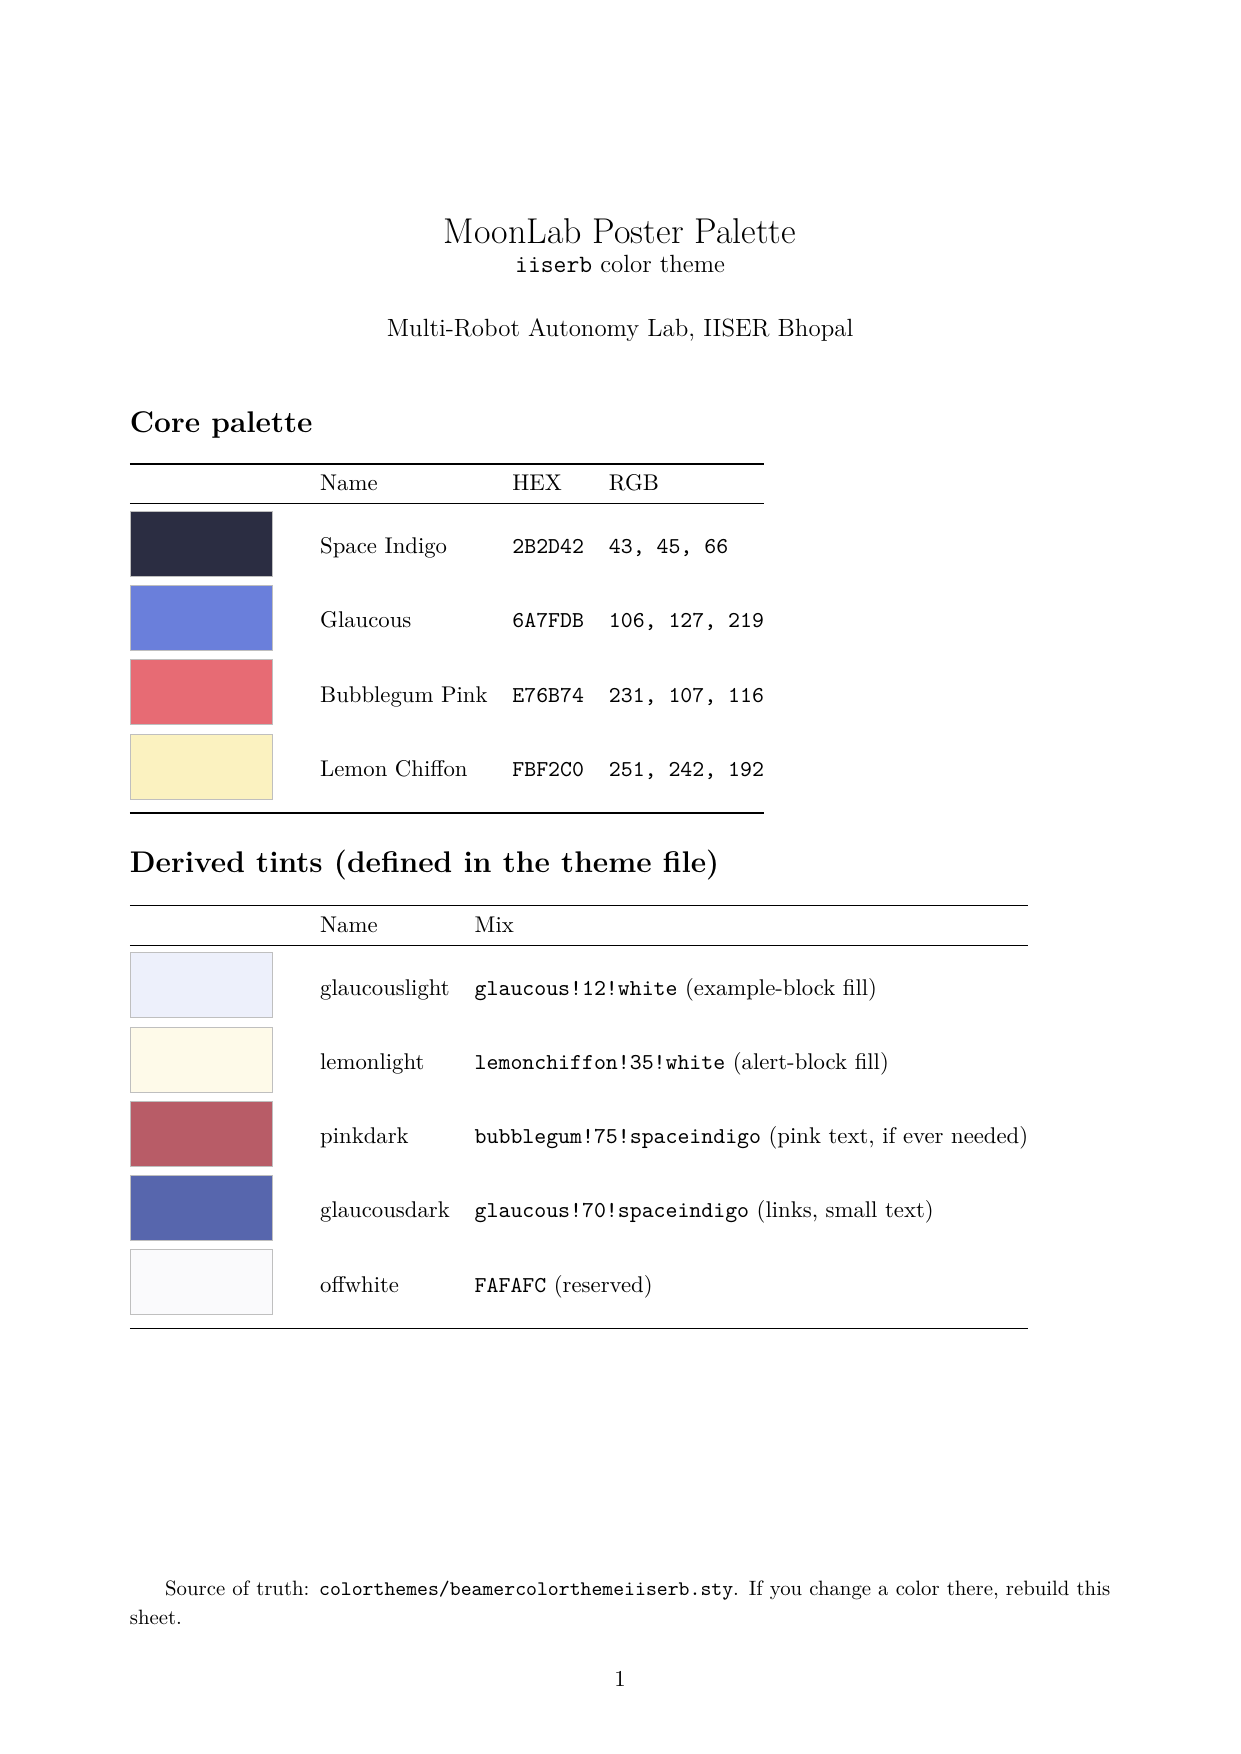
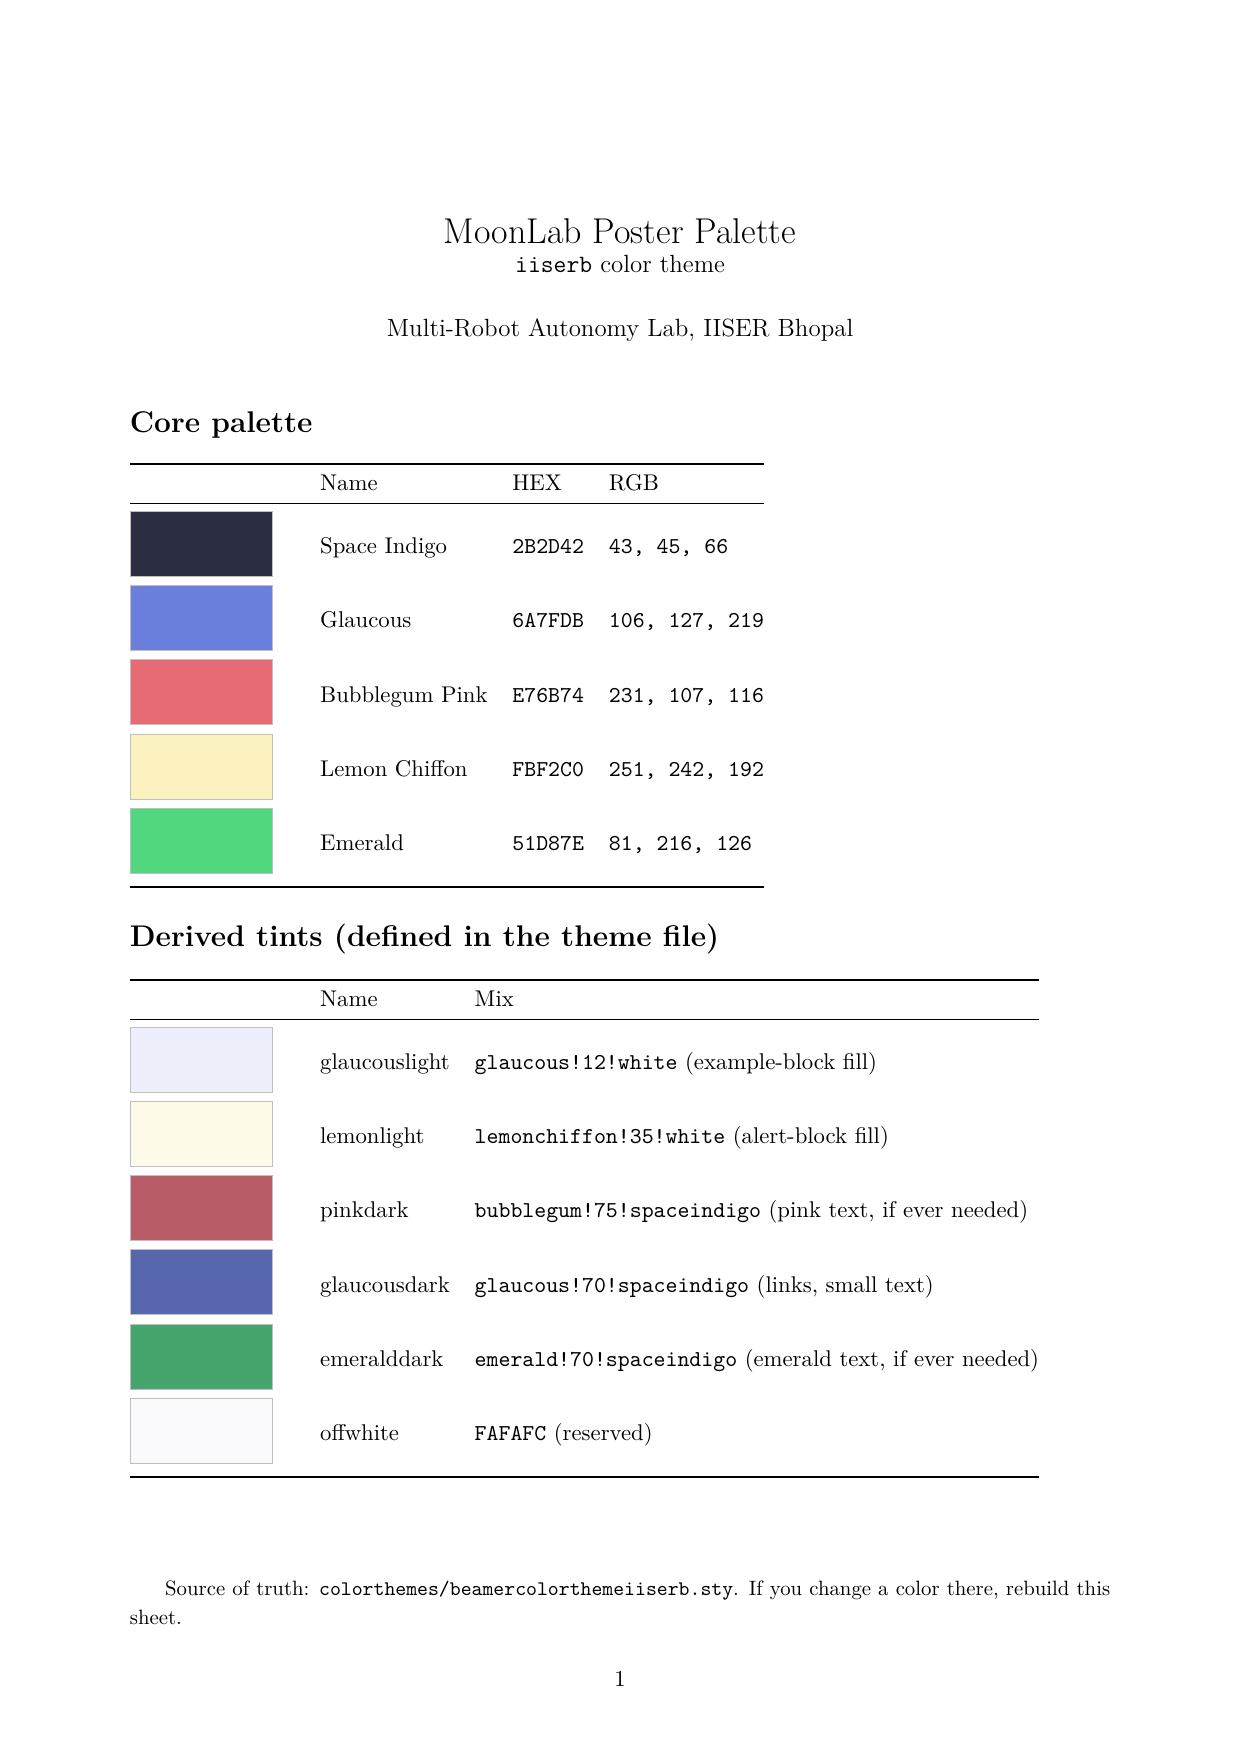
feat[palette]: added new emerald color

diff --git a/sections/_index.tex b/sections/_index.tex
@@ -33,7 +33,7 @@
 
   \begin{block}{Poster palette}
 
-    The \texttt{iiserb} theme in four swatches — usage guidance in
+    The \texttt{iiserb} theme in five swatches — usage guidance in
     \texttt{docs/palette/palette.pdf}.
 
     \begin{center}
@@ -42,10 +42,11 @@
           0/spaceindigo/Space Indigo/2B2D42,
           1/glaucous/Glaucous/6A7FDB,
           2/bubblegum/Bubblegum Pink/E76B74,
-          3/lemonchiffon/Lemon Chiffon/FBF2C0} {
-          \fill[\swatchcolor] ({\k*8},0) rectangle ({\k*8+7},3.5);
-          \draw[spaceindigo!30!white] ({\k*8},0) rectangle ({\k*8+7},3.5);
-          \node[below, text width=7cm, align=center] at ({\k*8+3.5},-0.2) {\swatchname\\\texttt{\swatchhex}};
+          3/lemonchiffon/Lemon Chiffon/FBF2C0,
+          4/emerald/Emerald/51D87E} {
+          \fill[\swatchcolor] ({\k*7},0) rectangle ({\k*7+6.2},3.5);
+          \draw[spaceindigo!30!white] ({\k*7},0) rectangle ({\k*7+6.2},3.5);
+          \node[below, text width=6.2cm, align=center] at ({\k*7+3.1},-0.2) {\swatchname\\\texttt{\swatchhex}};
         }
       \end{tikzpicture}
     \end{center}
@@ -123,17 +124,66 @@
       \begin{tikzpicture}
         \begin{axis}[
             scale only axis,
+            width=0.3\colwidth,
+            height=0.24\colwidth,
             no markers,
             domain=0:2*pi,
             samples=100,
             axis lines=center,
             axis line style={spaceindigo, thick},
-            ticks=none]
-          \addplot[spaceindigo, very thick] {sin(deg(x))};
-          \addplot[bubblegum, very thick] {cos(deg(x))};
+            ticks=none,
+            legend pos=north east,
+            legend style={font=\small, fill=white, draw=spaceindigo, thick}]
+          \addplot[spaceindigo, ultra thick] {sin(deg(x))};
+          \addplot[glaucousdark, ultra thick] {cos(deg(x))};
+          \addplot[bubblegum, ultra thick] {sin(deg(2*x))};
+          \addplot[emerald, ultra thick] {cos(deg(2*x))};
+          \legend{$\sin(x)$,$\cos(x)$,$\sin(2x)$,$\cos(2x)$}
         \end{axis}
       \end{tikzpicture}
-      \caption{Another figure caption.}
+      \hfill
+      \begin{tikzpicture}
+        \begin{axis}[
+            ybar,
+            width=0.3\colwidth,
+            height=0.24\colwidth,
+            bar width=1.4cm,
+            symbolic x coords={Indigo,Glaucous,Bubblegum,Emerald},
+            xtick=data,
+            ticks=none,
+            axis lines*=left,
+            axis line style={spaceindigo, thick},
+            ymin=0, ymax=10]
+          \addplot[bar shift=0pt, fill=spaceindigo, draw=spaceindigo!60!black] coordinates {(Indigo,8)};
+          \addplot[bar shift=0pt, fill=glaucous, draw=glaucous!60!black] coordinates {(Glaucous,6)};
+          \addplot[bar shift=0pt, fill=bubblegum, draw=bubblegum!60!black] coordinates {(Bubblegum,7)};
+          \addplot[bar shift=0pt, fill=emerald, draw=emerald!60!black] coordinates {(Emerald,5)};
+        \end{axis}
+      \end{tikzpicture}
+      \hfill
+      \begin{tikzpicture}
+        \begin{axis}[
+            scale only axis,
+            width=0.3\colwidth,
+            height=0.24\colwidth,
+            axis lines=left,
+            axis line style={spaceindigo, thick},
+            ticks=none,
+            xmin=0, xmax=10,
+            ymin=0, ymax=10]
+          \addplot[only marks, mark=*, mark size=7pt, fill=spaceindigo, draw=spaceindigo!60!black, thick]
+            coordinates {(1,2)(2,3)(3,3.5)(4,5)(5,5.5)(6,7)};
+          \addplot[only marks, mark=square*, mark size=7pt, fill=glaucous, draw=glaucous!60!black, thick]
+            coordinates {(1,7)(2,6)(3,6.5)(5,4)(6,3)(7,2.5)};
+          \addplot[only marks, mark=triangle*, mark size=8pt, fill=bubblegum, draw=bubblegum!60!black, thick]
+            coordinates {(2,8)(4,7.5)(5,8.5)(7,7)(8,8)};
+          \addplot[only marks, mark=diamond*, mark size=8pt, fill=emerald, draw=emerald!60!black, thick]
+            coordinates {(1,4)(3,5)(4,4)(6,6)(8,5)(9,6)};
+          \addplot[only marks, mark=pentagon*, mark size=8pt, fill=lemonchiffon, draw=spaceindigo, thick]
+            coordinates {(2,1)(4,2)(6,1.5)(8,2.5)};
+        \end{axis}
+      \end{tikzpicture}
+      \caption{Line, bar, and scatter plots in theme colors.}
     \end{figure}
 
     In in mi consequat, tristique felis at, dapibus lacus. Fusce sed eleifend

diff --git a/docs/palette/palette.tex b/docs/palette/palette.tex
@@ -16,10 +16,12 @@
 \definecolor{glaucous}{HTML}{6A7FDB}
 \definecolor{bubblegum}{HTML}{E76B74}
 \definecolor{lemonchiffon}{HTML}{FBF2C0}
+\definecolor{emerald}{HTML}{51D87E}
 \colorlet{glaucouslight}{glaucous!12!white}
 \colorlet{lemonlight}{lemonchiffon!35!white}
 \colorlet{pinkdark}{bubblegum!75!spaceindigo}
 \colorlet{glaucousdark}{glaucous!70!spaceindigo}
+\colorlet{emeralddark}{emerald!70!spaceindigo}
 \definecolor{offwhite}{HTML}{FAFAFC}
 
 \newcommand{\swatch}[1]{\tikz{\fill[#1] (0,0) rectangle (2.4,1.1); \draw[black!25] (0,0) rectangle (2.4,1.1);}}
@@ -40,6 +42,7 @@
 \swatch{glaucous}     & \normalfont Glaucous      & 6A7FDB & 106, 127, 219 \\
 \swatch{bubblegum}    & \normalfont Bubblegum Pink& E76B74 & 231, 107, 116 \\
 \swatch{lemonchiffon} & \normalfont Lemon Chiffon & FBF2C0 & 251, 242, 192 \\
+\swatch{emerald}      & \normalfont Emerald       & 51D87E & 81, 216, 126 \\
 \bottomrule
 \end{tabular}
 
@@ -52,6 +55,7 @@
 \swatch{lemonlight}    & \normalfont lemonlight    & \texttt{lemonchiffon!35!white} (alert-block fill) \\
 \swatch{pinkdark}      & \normalfont pinkdark      & \texttt{bubblegum!75!spaceindigo} (pink text, if ever needed) \\
 \swatch{glaucousdark}  & \normalfont glaucousdark  & \texttt{glaucous!70!spaceindigo} (links, small text) \\
+\swatch{emeralddark}   & \normalfont emeralddark   & \texttt{emerald!70!spaceindigo} (emerald text, if ever needed) \\
 \swatch{offwhite}      & \normalfont offwhite      & \texttt{FAFAFC} (reserved) \\
 \bottomrule
 \end{tabular}
@@ -61,7 +65,7 @@
 
 \newpage
 \section*{How to use the palette (keep it cohesive)}
-Aim for roughly: \textbf{white 60\% / indigo 25\% / glaucous 10\% / pink + lemon under 5\%}.
+Aim for roughly: \textbf{white 60\% / indigo 25\% / glaucous 10\% / pink + lemon + emerald under 5\%}.
 
 \begin{description}
 \item[Space Indigo — the workhorse.] Headline bar, block titles, headings,
@@ -77,14 +81,19 @@ body text on white (use \texttt{pinkdark} if pink text is unavoidable).
 \item[Lemon Chiffon — tint only.] Alert-block fill as a 35\% tint; never
 lines or text on white — it is too light to read. The one exception is
 footer links on the dark indigo bar, where full-strength lemon is readable.
+\item[Emerald — figures only.] A contrasting data series against indigo
+(e.g.\ pink vs.\ emerald, or the two blues vs.\ one accent). Never large
+fills, never body text on white (use \texttt{emeralddark} if emerald text is
+unavoidable).
 \end{description}
 
 \subsection*{Do}
 \begin{itemize}
-\item Pair one dark series with one accent series per figure
-(\texttt{spaceindigo} vs \texttt{bubblegum}, or \texttt{spaceindigo} vs
-\texttt{glaucousdark}); use \texttt{thick} / \texttt{very thick} lines —
-posters are read from metres away.
+\item Pair one dark series with accent series per figure
+(\texttt{spaceindigo} vs \texttt{bubblegum}, \texttt{spaceindigo} vs
+\texttt{emerald}, or the two blues \texttt{spaceindigo} + \texttt{glaucousdark}
+against one accent); use \texttt{thick} / \texttt{ultra thick} lines and a
+legend — posters are read from metres away.
 \item Let the single pink element mark the single most important takeaway.
 \item Keep tables black-on-white with \texttt{booktabs} rules.
 \end{itemize}
@@ -93,7 +102,8 @@ posters are read from metres away.
 \begin{itemize}
 \item Introduce extra colors (no pure \texttt{red}/\texttt{blue}/\texttt{green}
 plot defaults — the template's placeholders already use theme colors).
-\item Use more than 2--3 series per plot, or pink and lemon in the same figure.
+\item Use more than 4 series per plot (and always add a legend beyond 2
+series), or pink and lemon in the same figure.
 \item Put lemon text on white, or white text anywhere except the indigo bars.
 \end{itemize}
 \end{document}

diff --git a/docs/GETTING_STARTED.md b/docs/GETTING_STARTED.md
@@ -113,8 +113,9 @@ text or shrink a figure in `sections/_index.tex` until the warning is gone.
 
 Read [palette.pdf](palette/palette.pdf), page 2 (2 minutes). The short version:
 indigo does the work, white dominates, glaucous is the only repeating accent,
-pink marks one thing, lemon stays in tints (except footer links). If you add a
-plot series, use `spaceindigo` vs `bubblegum` — never the raw `red`/`blue` defaults.
+pink marks one thing, lemon stays in tints (except footer links), emerald is
+for plot series only. If you add a plot series, use `spaceindigo` vs
+`bubblegum`/`emerald` — never the raw `red`/`blue` defaults.
 
 ## Step 7 (optional) — Change size, logos, fonts
 
